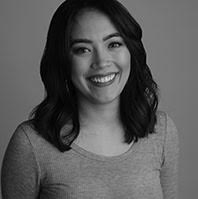
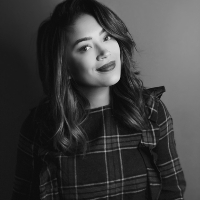
Updates with new information and team members

diff --git a/public/TeamRoute/TeamCtrl.js b/public/TeamRoute/TeamCtrl.js
@@ -11,6 +11,12 @@ angular.module("salono").controller("TeamCtrl", ["$scope", "TeamSvc", function($
             specialties: "Long-lasting Cuts & Colors, Babylights, Gray-blending, Brows"
         },
         {
+            name: "Aubree",
+            preview: "./images/Team/Aubree.jpg",
+            image: "./images/Team/Aubree-Large.jpg",
+            bio: "Salon Coordinator."
+        },
+        {
             name: "Bethany",
             preview: "./images/Team/Bethany.jpg",
             image: "./images/Team/Bethany-Large.jpg",
@@ -19,7 +25,7 @@ angular.module("salono").controller("TeamCtrl", ["$scope", "TeamSvc", function($
         },
         {
             name: "Brittney",
-            preview: "./images/Team/Brittney.jpg",
+            preview: "./images/Team/Brittney2.jpg",
             image: "./images/Team/Brittney-Large.jpg",
             bio: "Years in the industry: I began in 2006. \n\nFavorite advanced training: Great Lengths International extension course in Las Vegas and Kevin Murphy’s “The Big Show” in Seattle. So much fun! \n\nWhy the hair industry: For me the hair industry represents a creative outlet, a way for me to express my artistic side.  I love how my work challenges me to grow as a person and as a professional. \n\nThree favorite things: \n·      First would be my family. They are my stability and bring me happiness everyday. \n·      Second is sunshine! When the sun is shining I am happy. I love to be outside and feel the heat on my skin. \n·      Finally, I love great food, especially seafood. I would love to live near water and have fresh fish all the time! \n\nMost unlikely inspiration: I get a lot of my inspiration from nature. I feel like no matter what season, there is always something that catches my attention and brings out my imagination.",
             specialties: "Great Lengths Extensions, Colorist, Balayage, Men's Cuts"
@@ -41,7 +47,14 @@ angular.module("salono").controller("TeamCtrl", ["$scope", "TeamSvc", function($
             name: "Hillary",
             preview: "./images/Team/Hillary.jpg",
             image: "./images/Team/Hillary-Large.jpg",
-            bio: "Bio coming soon..."
+            bio: "Salon Coordinator."
+        },
+        {
+            name: "Isabelle",
+            preview: "./images/Team/Isabelle2.jpg",
+            image: "./images/Team/Isabelle-Large2.jpg",
+            bio: "Bio coming soon...",
+            specialties: "Lifts and lash extensions"
         },
         {
             name: "Jessica",
@@ -51,11 +64,18 @@ angular.module("salono").controller("TeamCtrl", ["$scope", "TeamSvc", function($
             specialties: "Color"
         },
         {
-            name: "Kat C",
+            name: "Kat",
             preview: "./images/Team/KatC.jpg",
             image: "./images/Team/KatC-Large.jpg",
             bio: "Years in the industry: I began in the hair industry in 1994. \n\nFavorite advanced training: Vidal Sassoon Precision Cutting Classes. The precision cutting techniques I acquired are the foundation for any cut, structured or not. \n\nWhy the hair industry: Because you have the freedom to be creative. \n\nThree favorite things: \n·      Dinner parties. \n·      Friends. \n·      Being active. \n\nMost unlikely inspiration: My grandmother.",
             specialties: "Classic Cuts & Colors, Short Cuts"
+        },
+        {
+            name: "Katie",
+            preview: "./images/Team/Katie.jpg",
+            image: "./images/Team/Katie-Large.jpg",
+            bio: "Years in the industry: I started my hair carrier in 2012.\n\nFavorite advanced training: My favorite advanced training was an editorial class from Chris Baran.  He showed us the behind the scenes of fashion week and avant-garde photo shoots.  We learned how to make wigs and hair pieces and also how to apply them by crocheting them into the hair or utilizing chicken wire to create the shape you wanted.  It’s not so glitz and glam after all!\n\nWhy the hair industry: I always wanted to be in the beauty industry from a very young age.  I would always beg my parents to buy me hair and makeup products from the grocery store (this started at about age 3) and they never understood why I wanted lipstick instead of a toy sometimes.  I love the fashion forward trends and the open mindedness of the community and how everyone is so welcoming.\n\nThree favorite things:\n·      Cats (followed by a Benadryl since I’m allergic).\n·      Strong coffee.\n·      Velvet.\n\nMost unlikely inspiration: Comedy.  Particularly stand up.  I love how someone can create content that is specifically meant to make people laugh and bring people together.  It’s a true talent to be able to create a laughable outcome out of a not so pleasant situation.  Being able to laugh about not only happy/hilarious things but also sad things uplifts the spirit and creates positivity as well as creativity.",
+//            specialties: "Alpha, Beta, Delta"
         },
         /*{
             name: "Kat L",
@@ -143,6 +163,13 @@ angular.module("salono").controller("TeamCtrl", ["$scope", "TeamSvc", function($
             image: "./images/Team/Tabitha-Large.jpg",
             bio: "Years in the industry: I began my career in 2007.\n\nFavorite advanced training: The best part of my career is the constant training and education I receive from fellow stylists. I am inspired everyday I go to work, and that’s unbeatable advanced training.\n\nWhy the hair industry: In my early teenage years I would watch my mom get her hair done, and I would practice what I learned on friends. I went from an informal stylist to officially graduating from the top beauty school, Euphoria Institute in Las Vegas on the luckiest days of all, 07/07/07. Jackpot!!!\n\nThree favorite things:\n·      Family.\n·      Mountains.\n·      Music.\n\nMost unlikely inspiration: Architecture. I briefly studied architecture at UNLV, and the knowledge of geometry, color scheme and overall building design still inspires me.",
             specialties: "Free-Form Artistry, Naturally-Enhanced Color, Hair Talk Extensions, Style Transformations"
+        },
+        {
+            name: "Tonni",
+            preview: "./images/Team/Tonni.jpg",
+            image: "./images/Team/Tonni-Large.jpg",
+            bio: "Years in the industry: I have been in the industry since 2005.\n\nFavorite advanced training: Becoming a Certified Redken Color Artist. I Wanted to understand the theory of color like the back of my hand, memorize principles, learn the chemistry behind it all and become a mad scientist!\n\nWhy the hair industry: I have always been drawn to hair. Shapes, sizes, angles, measurements and what they can accentuate. Imagine color bringing all of those shapes and designs to life! It’s incredible seeing what that can do to a persons look and to a persons confidence level.\n\nThree favorite things:\n·      Drumming.\n·      Riding Motorcycles.\n·      Art.\n·      and for bonus points, the greatest thing of all... DOGS!\n\nMost unlikely inspiration: Watching someone put all their effort and trust into something not fearing what is on the other side. When I see someone working hard I want to do the same, it must be an energy thing, people are contagious.",
+            //specialties: "Alpha, Beta, Delta"
         }
         
     ];
@@ -154,12 +181,19 @@ angular.module("salono").controller("TeamCtrl", ["$scope", "TeamSvc", function($
             if($scope.leftPOS >= -300){
                 $scope.leftPOS -= 104;
             }
- //           else if($scope.leftPOS < -300){
- //               $scope.leftPOS = -338;
- //           }
+            else if($scope.leftPOS < -300){
+                $scope.leftPOS = -416;
+            }
+            // 312 base + 26 for each additional  tile
+//            else if($scope.leftPOS < -300){
+//                $scope.leftPOS = -338;
+//            }
         }
         if(direction === "right"){
-            if($scope.leftPOS === -338) {
+//            if($scope.leftPOS === -338) {
+//                $scope.leftPOS = -312;
+//            }
+            if($scope.leftPOS === -416) {
                 $scope.leftPOS = -312;
             }else{
                 if($scope.leftPOS < 0){

diff --git a/public/ServicesRoute/ServicesCtrl.js b/public/ServicesRoute/ServicesCtrl.js
@@ -6,11 +6,11 @@ angular.module("salono").controller("ServicesCtrl", ["$scope", "ServicesSvc", fu
     
 	$scope.ServiceDetails = {
         "Design+Shape": ["Women's Cuts", "Men's Cuts", "Shampoo | Blowdry", "Blowdry Lesson", "Hair Extensions: Requires a consultation"],
-        "Pigment": ["Full Color", "Retouch Color", "Highlights", "Ombre | Sombre | Color Melt", "Color Correction: Requires a consultation", "Balayage"],
+        "Pigment": ["Full Color", "Retouch Color", "Highlights", "Balayage | Color Melt", "Color Correction: Requires a consultation"],
         "Remedy+Restore" : ["Dry", "Oily", "Brittle | Fragile", "Rebellious | Curly", "Lifeless |  Dull", "Chemically Treated", "Thinning Hair", "Home Maintenance Systems Are Available"],
         "Polish": ["Special Event Hair", "Makeup Artistry", "Brow Wax", "Brow & Lash Tinting"],
         "Texture": ["Keratin Smoothing Treatment: Requires a consultation", "Relaxers", "Perms"],
-        "Indulge" : ["Full Body Waxing & Sugaring", "Full Face Waxing & Sugaring", "Brow Microblading: Requires a consultation"]
+        "Indulge" : ["Lash Lift", "Lash Extensions", "Lash Tint | Brow Tint"]
     };
     
     $scope.SelectService = function(name) {
